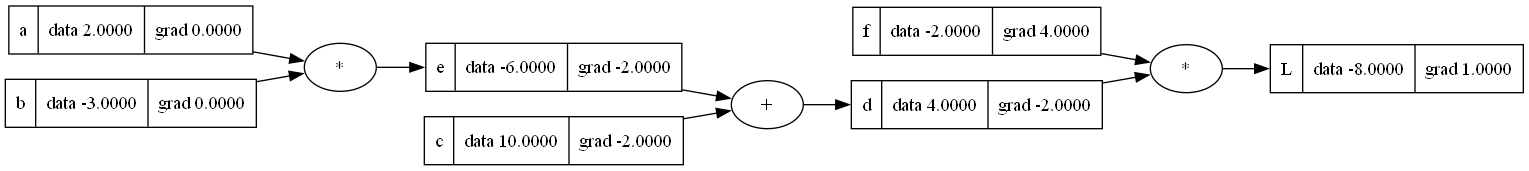
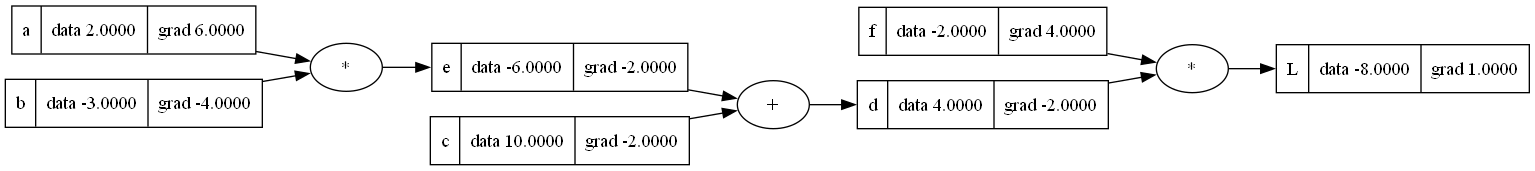
gradient update

diff --git a/micrograd.py b/micrograd.py
@@ -88,6 +88,8 @@ def main():
     d.grad = -2.0
     e.grad = -2.0
     c.grad = -2.0
+    a.grad = 6.0
+    b.grad = -4.0
     
 
     dot = draw_dot(L)
